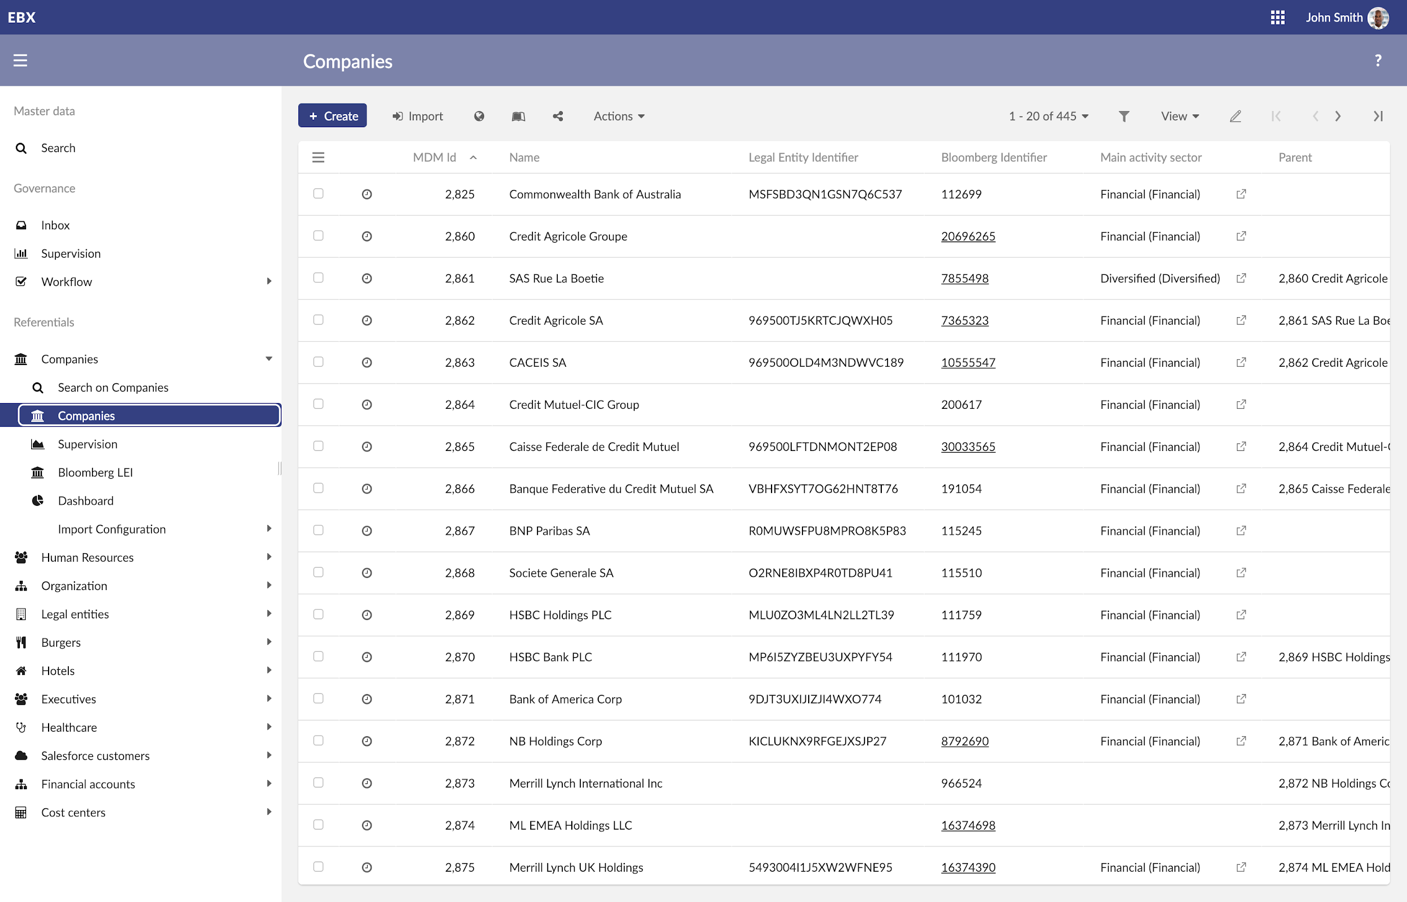
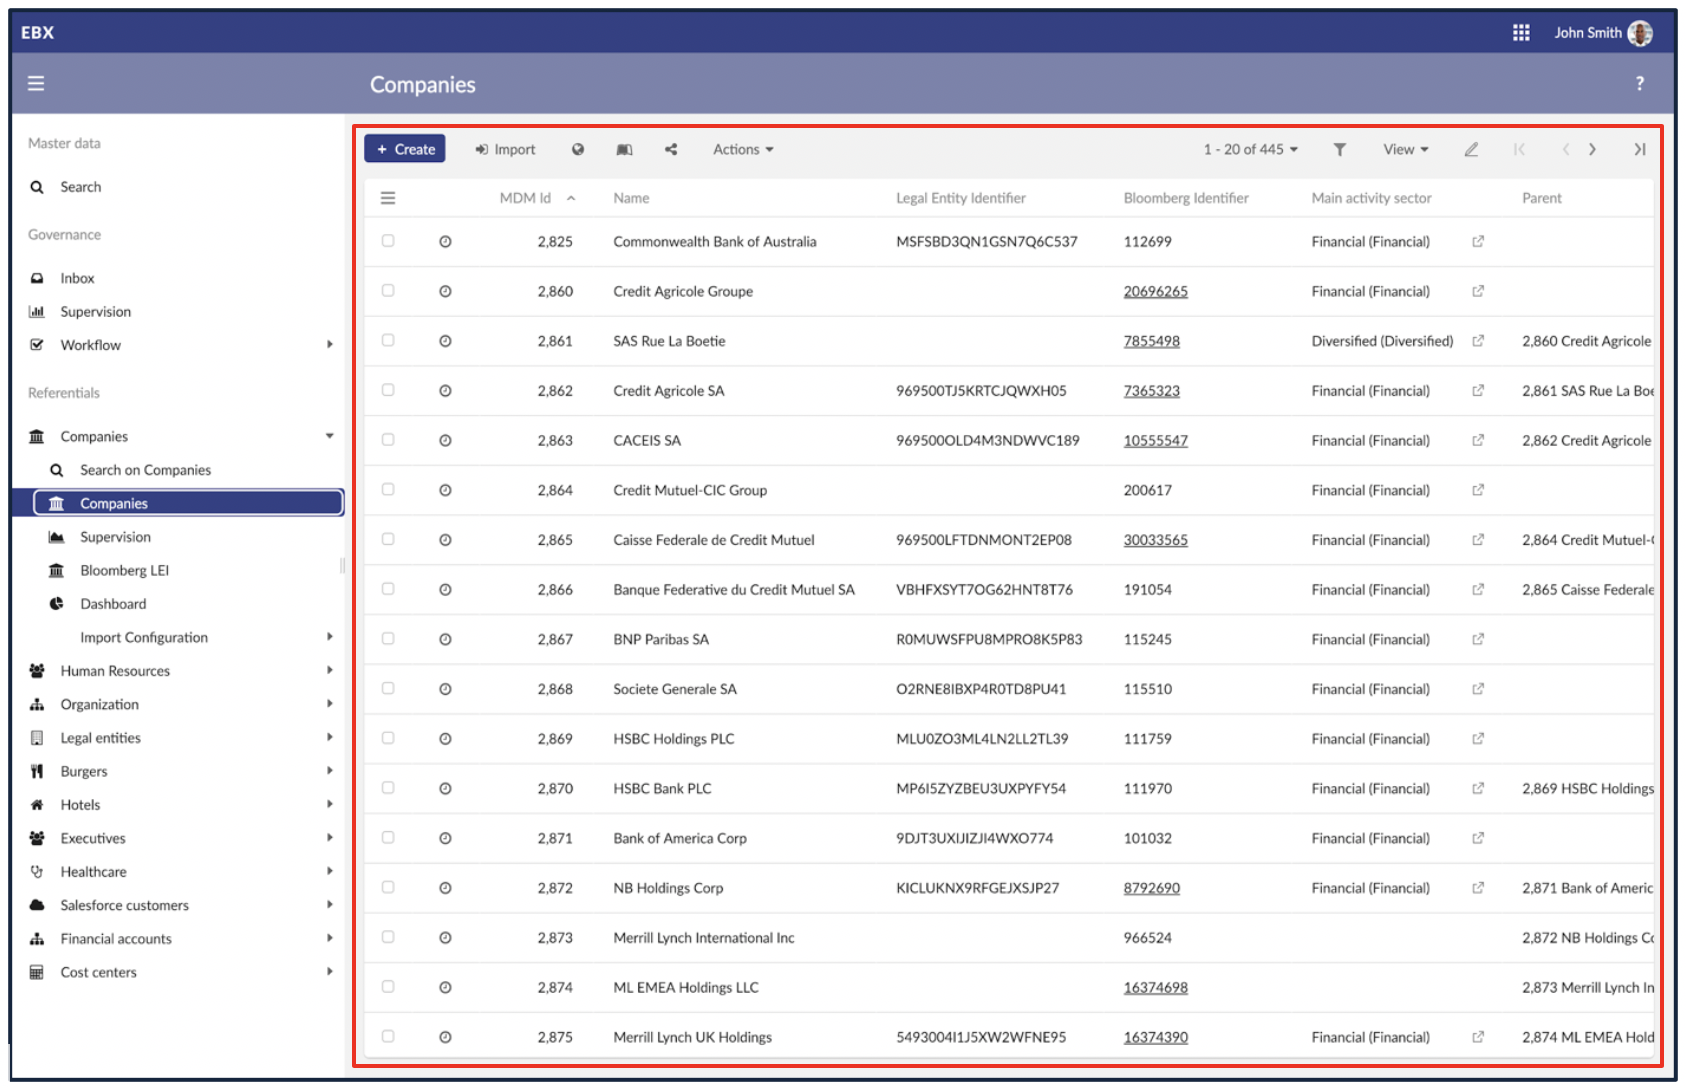
as

diff --git a/README.md b/README.md
@@ -244,7 +244,7 @@ Congratulations! Let’s start the exercises in EBX.
 
 Let’s click on the Company domain to illustrate EBX user interface features.
 
-<img src=images/image023.png width="80%">
+<img src=images/image025.png width="80%">
 
 The right part of the screen is the associated content. In this example, a list of companies, and all the available features.
 
@@ -256,7 +256,7 @@ On this example, we have 445 companies.
 
 This screen is automatically generated by EBX, because it’s a model driven tool.
 
-It means that you can exactly define the structure (the model) of the information that you want to manage. To do this, the first step is to define a company in o   ur context. 
+It means that you can exactly define the structure (the model) of the information that you want to manage. To do this, the first step is to define a company in our context. 
 
 <img src=images/image031.png width="80%">
 
